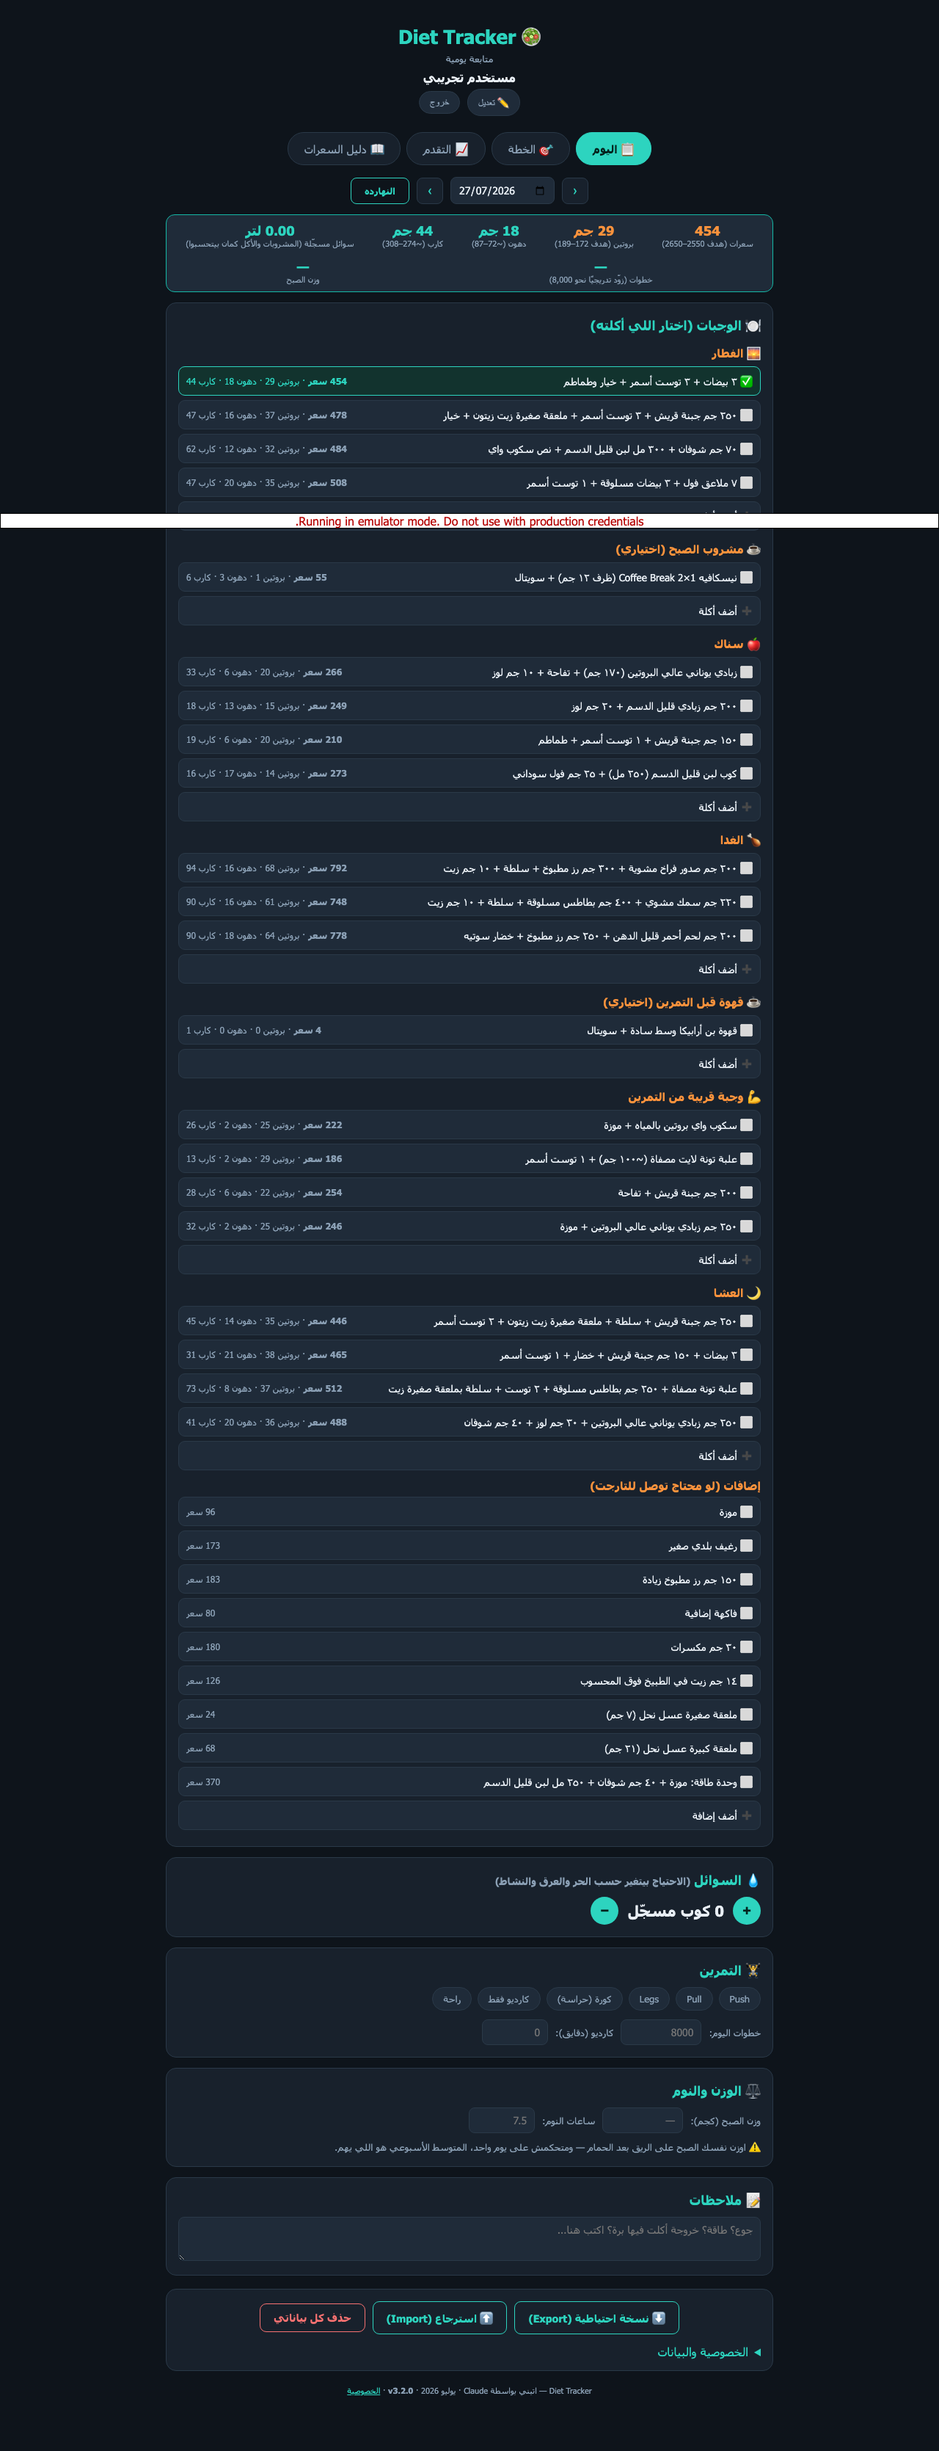
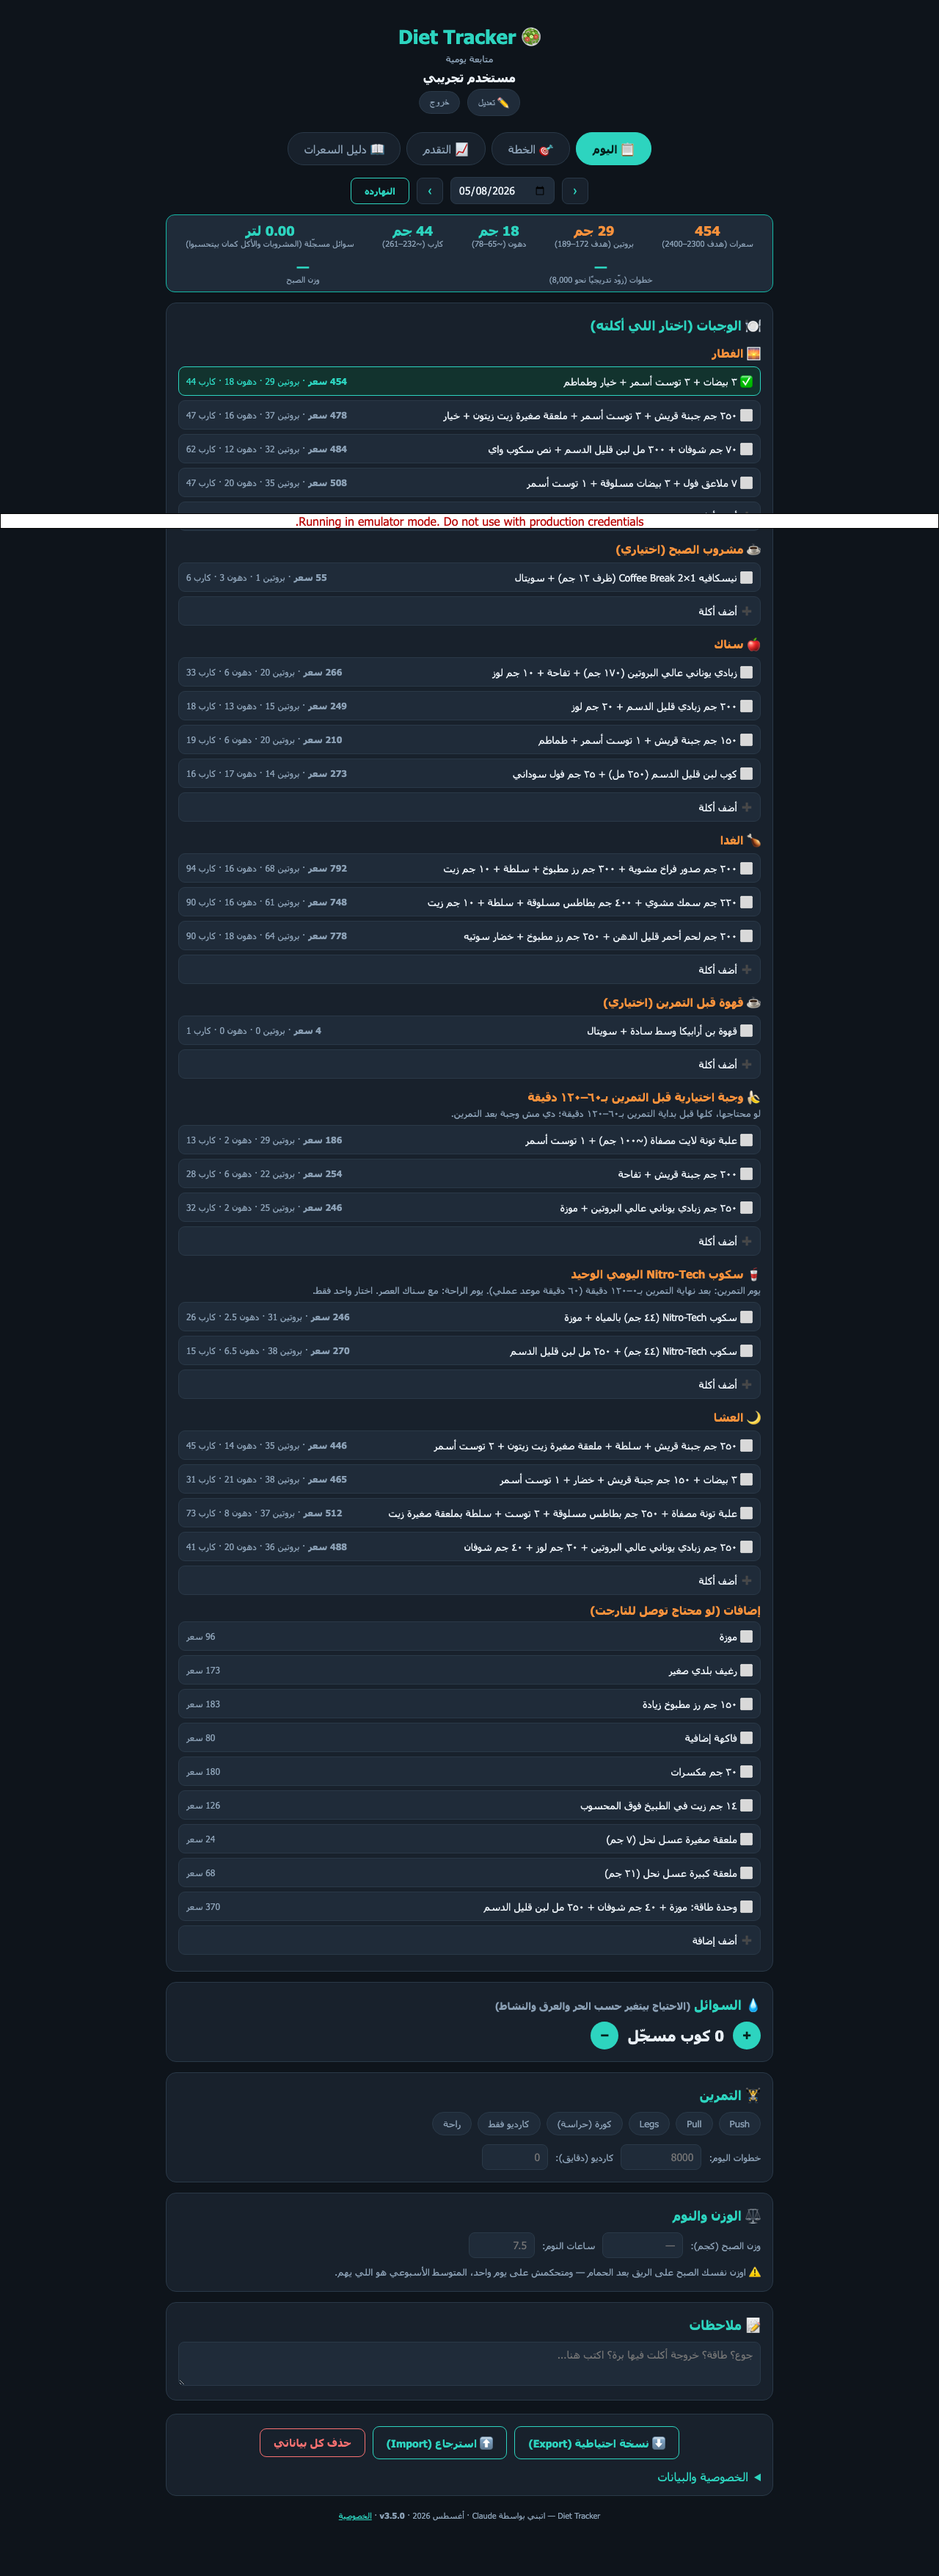
fix(nutrition): clarify workout meal timing

diff --git a/public/render.js b/public/render.js
@@ -24,10 +24,13 @@ function renderDay(){
   for(const key in MEALS){
     const m=MEALS[key];
     h+='<h3>'+m.name+'</h3>';
+    if(m.dayNote) h+='<p class="muted" style="margin:-4px 0 8px">'+m.dayNote+'</p>';
     m.opts.forEach((o,i)=>{
       const sel = d[key]===i;
+      if(o.legacyOnly&&!sel) return;
+      const title=o.legacyOnly?'⚠ اختيار محفوظ قديم — '+o.t+' — الغِ الاختيار لو هتستخدم Nitro-Tech':o.t;
       h+='<div class="opt'+(sel?" sel":"")+'" onclick="pick(\''+key+'\','+i+')">'
-        +'<span>'+(sel?"✅ ":"⬜ ")+o.t+'</span>'
+        +'<span>'+(sel?"✅ ":"⬜ ")+title+'</span>'
         +'<span class="kp">'+macros(o)+'</span></div>';
     });
     ((S.foods&&S.foods[key])||[]).forEach((o,i)=>{
@@ -297,9 +300,10 @@ function renderPlan(){
   let mealsRows="";
   for(const key in MEALS){
     const m=MEALS[key];
-    mealsRows+='<h3>'+m.name+(m.opts.length>1?' <span class="muted" style="font-weight:400">(اختر واحدة)</span>':'')+'</h3>'
+    const visibleOpts=m.opts.filter(o=>!o.legacyOnly);
+    mealsRows+='<h3>'+m.name+(visibleOpts.length>1?' <span class="muted" style="font-weight:400">(اختر واحدة)</span>':'')+'</h3>'
       +'<p class="muted" style="margin-bottom:6px">⚖ '+m.note+'</p>';
-    m.opts.forEach(o=>{
+    visibleOpts.forEach(o=>{
       mealsRows+='<div class="opt" style="cursor:default"><span>'+o.t+'</span>'
         +'<span class="kp">'+macros(o)+'</span></div>';
     });
@@ -327,7 +331,7 @@ function renderPlan(){
   <div class="card"><h2>🥤 القوالب اليومية وNitro-Tech</h2>
     <p class="muted" style="margin-bottom:8px">كل قالب فيه ٣ وجبات وسناكين، وينفع في يوم التمرين أو الراحة من غير تغيير هدف السعرات. القالب الأساسي هو الاختيار اليومي الأول، والتبديلين للتنويع.</p>
     ${templateRows}
-    <div class="note">✅ اختيار <b>Nitro-Tech اليومي</b> بيسجّل السكوب الواحد المخطط لليوم. متختارش معاه سكوب واي تاني من «وجبة قريبة من التمرين» إلا لو هتعيد حساب اليوم كله.</div>
+    <div class="note">✅ <b>Nitro-Tech</b> هو السكوب الكامل الوحيد المخطط كاختيار مستقل لليوم. قسم ما قبل التمرين بقى أكل فقط، من غير سكوب واي ثاني.</div>
     <ul class="plain">
       <li><b>يوم التمرين:</b> اختار المياه + الموزة وخده في حدود ٠–٢ ساعة بعد التمرين؛ ٦٠ دقيقة موعد عملي سهل، مش أفضلية توقيت مثبتة.</li>
       <li><b>يوم الراحة:</b> خده بانتظام مع سناك العصر؛ اختيار اللبن متاح لو مناسب لباقي اليوم.</li>

diff --git a/public/data.js b/public/data.js
@@ -19,12 +19,12 @@ const MEALS = {
     {t:"٢٠٠ جم لحم أحمر قليل الدهن + ٢٥٠ جم رز مطبوخ + خضار سوتيه", k:778, p:64, f:18, c:90}]},
   cf:{name:"☕ قهوة قبل التمرين (اختياري)", note:"سجّل كمية الكافيين من العبوة؛ تجنبها لو بتزود الدوخة أو الخفقان أو بتأثر على نومك، ومتتخطاش 400 مجم/اليوم", opts:[
     {t:"قهوة بن أرابيكا وسط سادة + سويتال", k:4, p:0, f:0, c:1}]},
-  pw:{name:"💪 وجبة قريبة من التمرين", note:"مش لازم فورًا؛ اختارها خلال 2–3 ساعات قبل أو بعد التمرين: ≈ 185–255 سعر", opts:[
-    {t:"سكوب واي بروتين بالمياه + موزة", k:222, p:25, f:2, c:26},
+  pw:{name:"🍌 وجبة اختيارية قبل التمرين بـ٦٠–١٢٠ دقيقة", dayNote:"لو محتاجها، كلها قبل بداية التمرين بـ٦٠–١٢٠ دقيقة؛ دي مش وجبة بعد التمرين.", note:"اختيارية قبل بداية التمرين بـ٦٠–١٢٠ دقيقة؛ لو مش محتاجها سيبها من غير اختيار: ≈ 185–255 سعر", opts:[
+    {t:"سكوب واي بروتين بالمياه + موزة", k:222, p:25, f:2, c:26, legacyOnly:true},
     {t:"علبة تونة لايت مصفاة (~١٠٠ جم) + ١ توست أسمر", k:186, p:29, f:2, c:13},
     {t:"٢٠٠ جم جبنة قريش + تفاحة", k:254, p:22, f:6, c:28},
     {t:"٢٥٠ جم زبادي يوناني عالي البروتين + موزة", k:246, p:25, f:2, c:32}]},
-  nt:{name:"🥤 Nitro-Tech اليومي", note:"اختار واحد بس للسكوب اليومي المخطط؛ الاختيارين شاملين ٣ جم كرياتين", opts:[
+  nt:{name:"🥤 سكوب Nitro-Tech اليومي الوحيد", dayNote:"يوم التمرين: بعد نهاية التمرين بـ٠–١٢٠ دقيقة (٦٠ دقيقة موعد عملي). يوم الراحة: مع سناك العصر. اختار واحد فقط.", note:"سكوب واحد فقط لليوم؛ بعد نهاية التمرين بـ٠–١٢٠ دقيقة، أو مع سناك العصر في يوم الراحة؛ الاختيارين شاملين ٣ جم كرياتين", opts:[
     {t:"سكوب Nitro-Tech (٤٤ جم) بالمياه + موزة", k:246, p:31, f:2.5, c:26},
     {t:"سكوب Nitro-Tech (٤٤ جم) + ٢٥٠ مل لبن قليل الدسم", k:270, p:38, f:6.5, c:15}]},
   d:{name:"🌙 العشا", note:"اختيارات كاملة بدل سناك صغير: ≈ 445–515 سعر · 35–38 جم بروتين", opts:[

diff --git a/CHANGELOG.md b/CHANGELOG.md
@@ -7,6 +7,14 @@ and this project adheres to [Semantic Versioning](https://semver.org/spec/v2.0.0
 
 ## [Unreleased]
 
+### Fixed
+
+- قسم وجبة التمرين بقى محدد بوضوح: أكل اختياري قبل بداية التمرين بـ٦٠–١٢٠
+  دقيقة، وسكوب Nitro-Tech الوحيد بعد نهاية التمرين بـ٠–١٢٠ دقيقة
+  (٦٠ دقيقة موعد عملي). اختيار الواي العام القديم مبقاش يظهر للأيام
+  الجديدة، لكن يفضل ظاهر لو كان محفوظًا في يوم قديم عشان تقدر تلغيه من غير
+  تغيير سجلك.
+
 ## [3.5.0] - 2026-08-05
 
 ### Added
